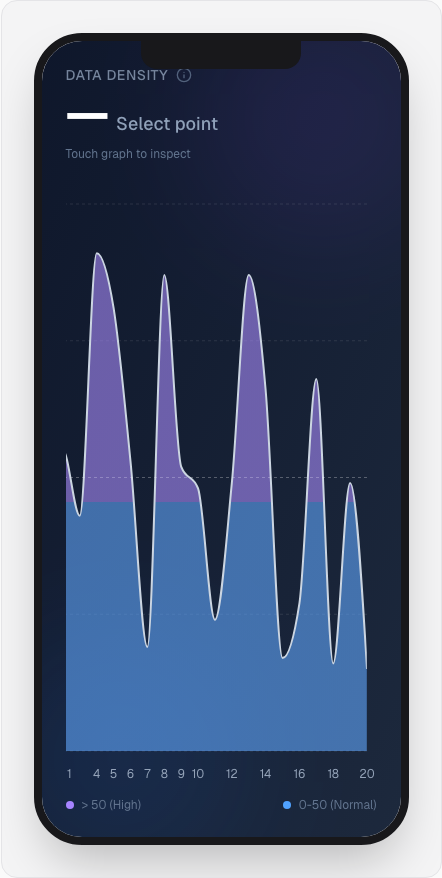
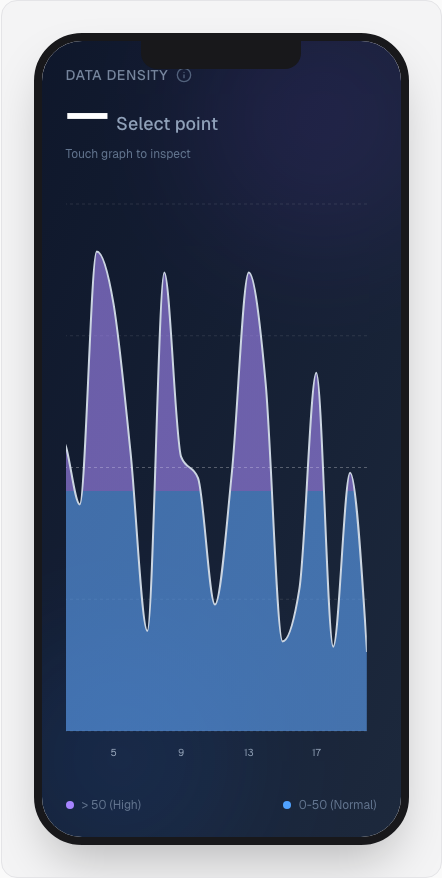
finished vega-altair-02

diff --git a/vega-mobile-projects/vega-altair-02/src/components/Visualization.tsx b/vega-mobile-projects/vega-altair-02/src/components/Visualization.tsx
@@ -1,5 +1,6 @@
 "use client";
 
+import { Info } from "lucide-react";
 import { useState } from "react";
 import {
   Area,
@@ -11,7 +12,6 @@ import {
   XAxis,
   YAxis,
 } from "recharts";
-import { Info } from "lucide-react";
 
 const dataset = [
   { x: 1, y: 28 },
@@ -71,7 +71,15 @@ export function Visualization() {
           <span className="text-5xl font-bold tracking-tight text-white transition-all duration-200 tabular-nums">
             {currentY !== null ? currentY : "—"}
           </span>
-          <span className="text-lg text-slate-400 font-medium">
+          <span
+            className={`text-lg font-medium transition-colors duration-200 ${
+              currentY !== null
+                ? currentY > 50
+                  ? "text-violet-400"
+                  : "text-blue-400"
+                : "text-slate-400"
+            }`}
+          >
             {currentY !== null
               ? currentY > 50
                 ? "High"
@@ -92,7 +100,7 @@ export function Visualization() {
         <ResponsiveContainer width="100%" height="100%">
           <AreaChart
             data={dataset}
-            margin={{ top: 10, right: 10, left: -20, bottom: 0 }}
+            margin={{ top: 10, right: 10, left: -20, bottom: 20 }}
             onMouseMove={(state) => {
               if (state.activePayload?.[0]) {
                 setActiveData(state.activePayload[0].payload);
@@ -123,8 +131,8 @@ export function Visualization() {
               dataKey="x"
               axisLine={false}
               tickLine={false}
-              tick={{ fill: "#94a3b8", fontSize: 12 }}
-              interval="preserveStartEnd"
+              tick={{ fill: "#94a3b8", fontSize: 10 }}
+              interval={3}
               dy={10}
             />
             <YAxis hide domain={[0, 100]} />
